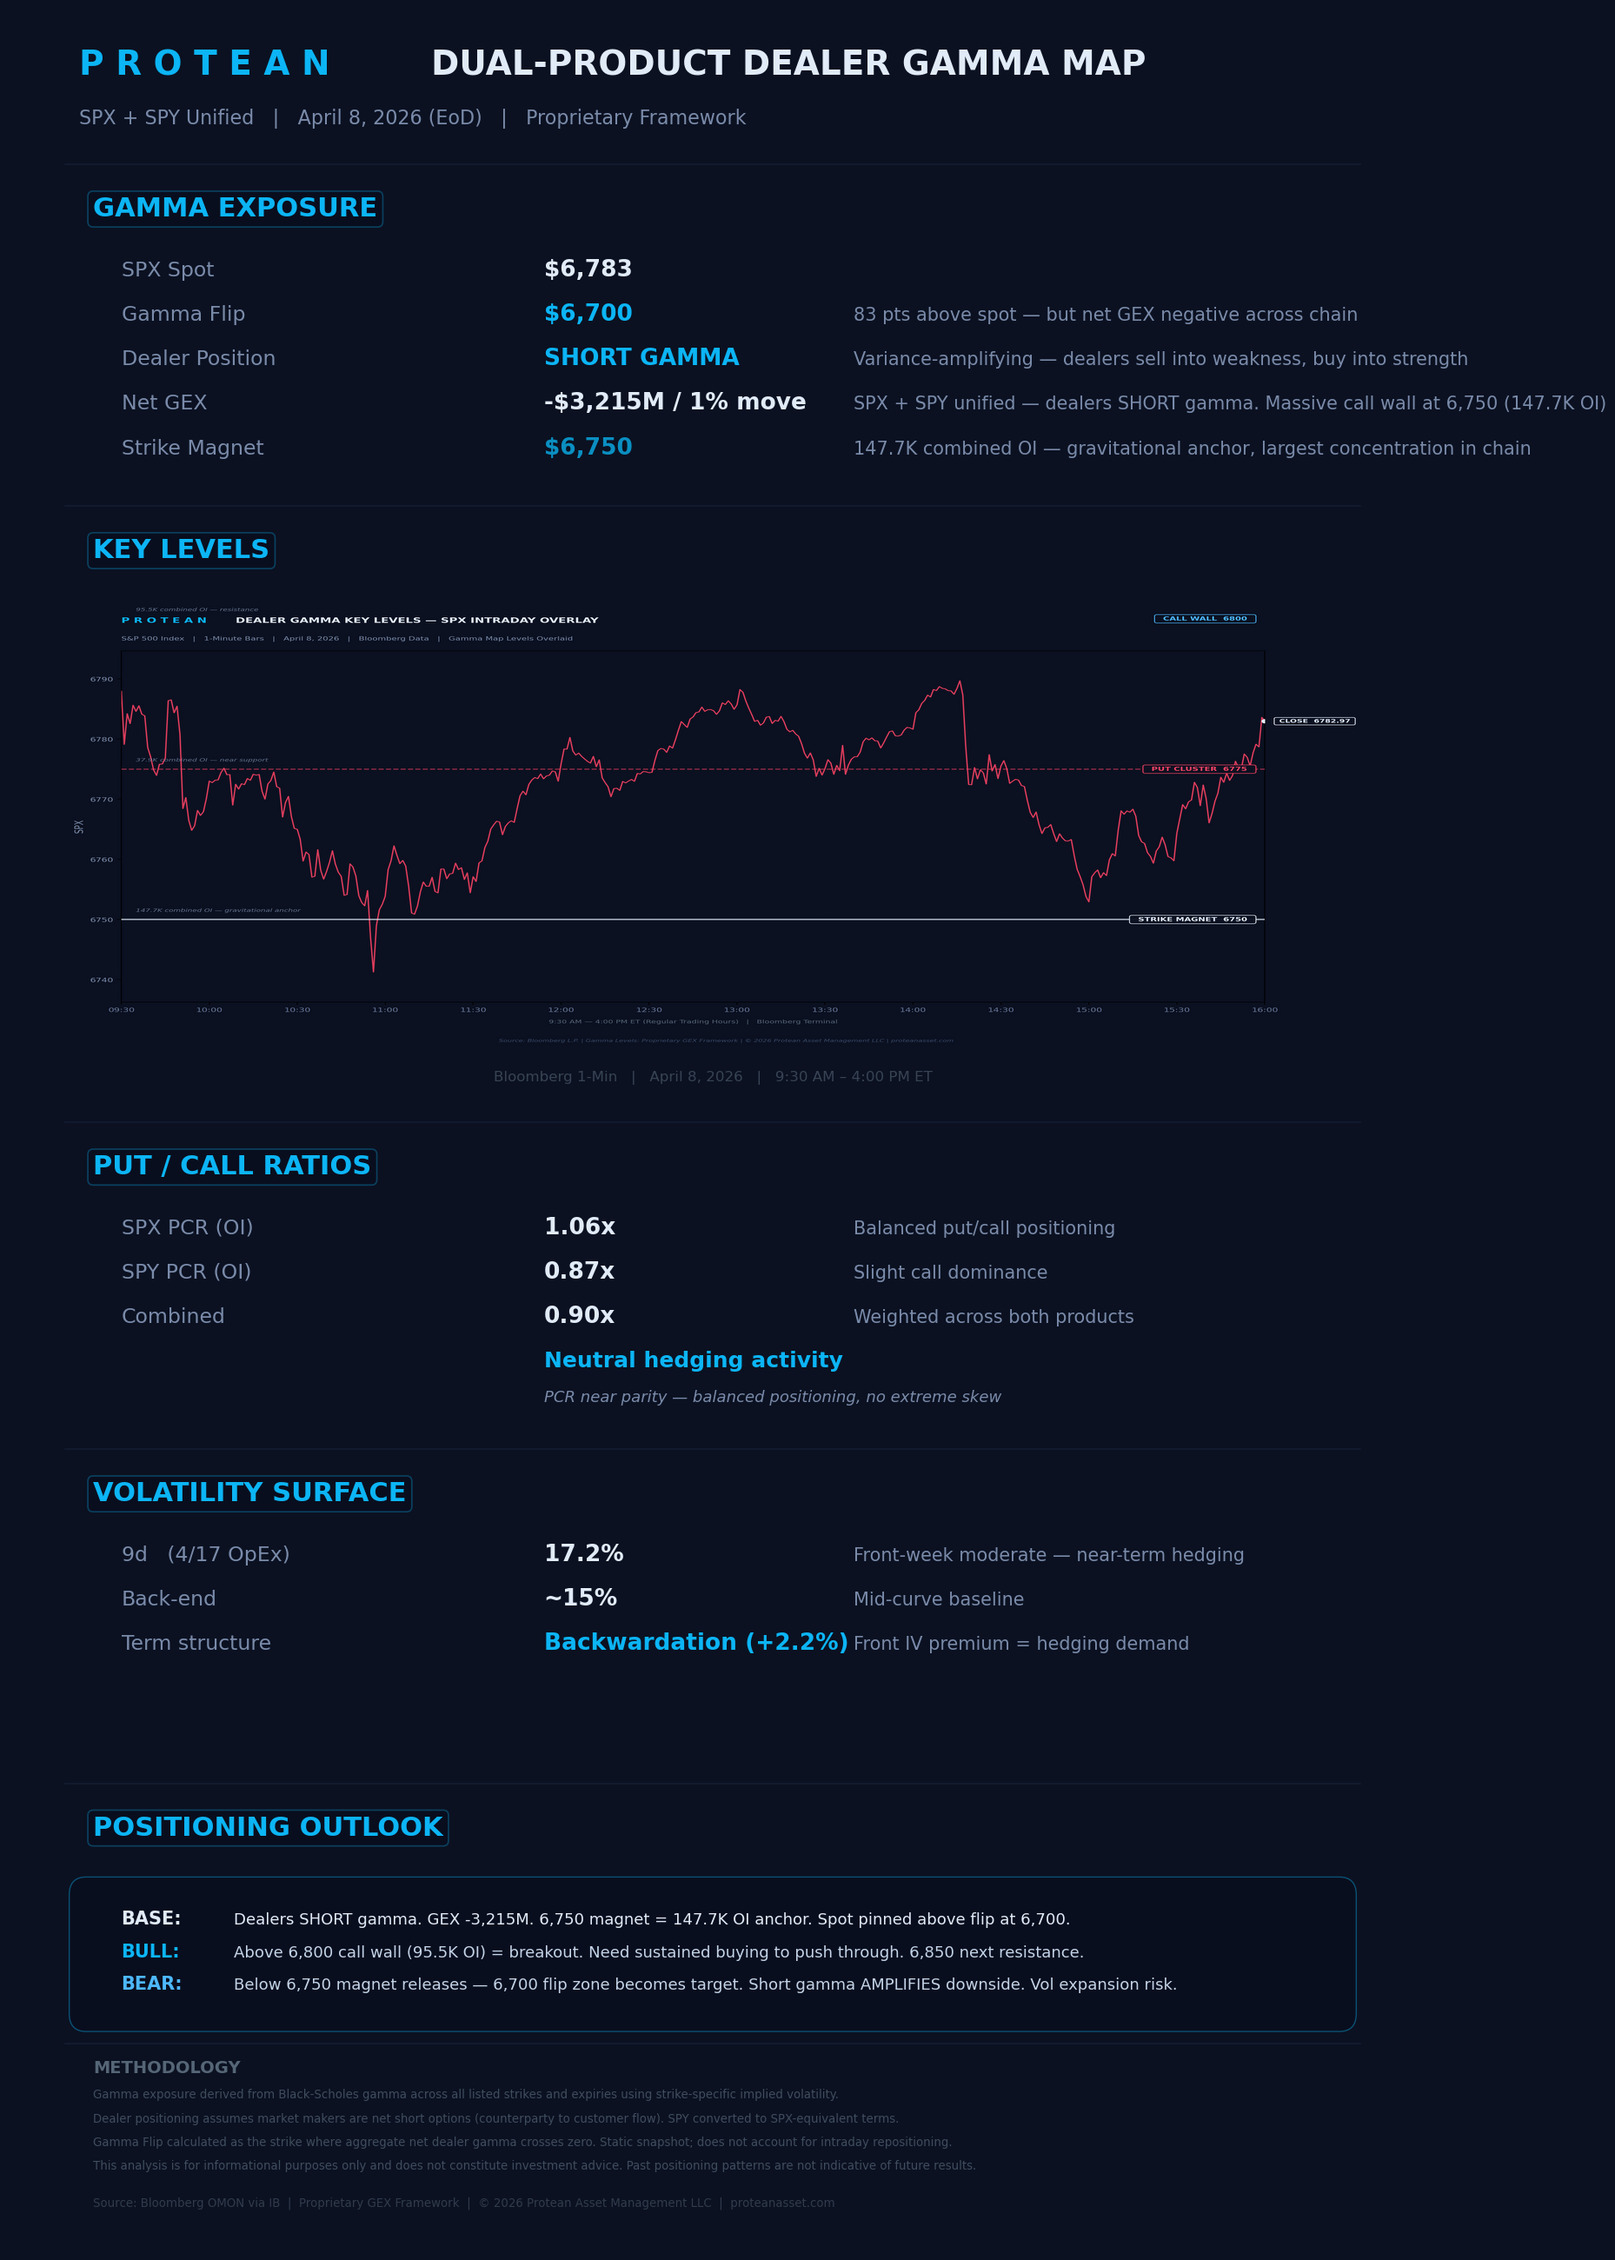
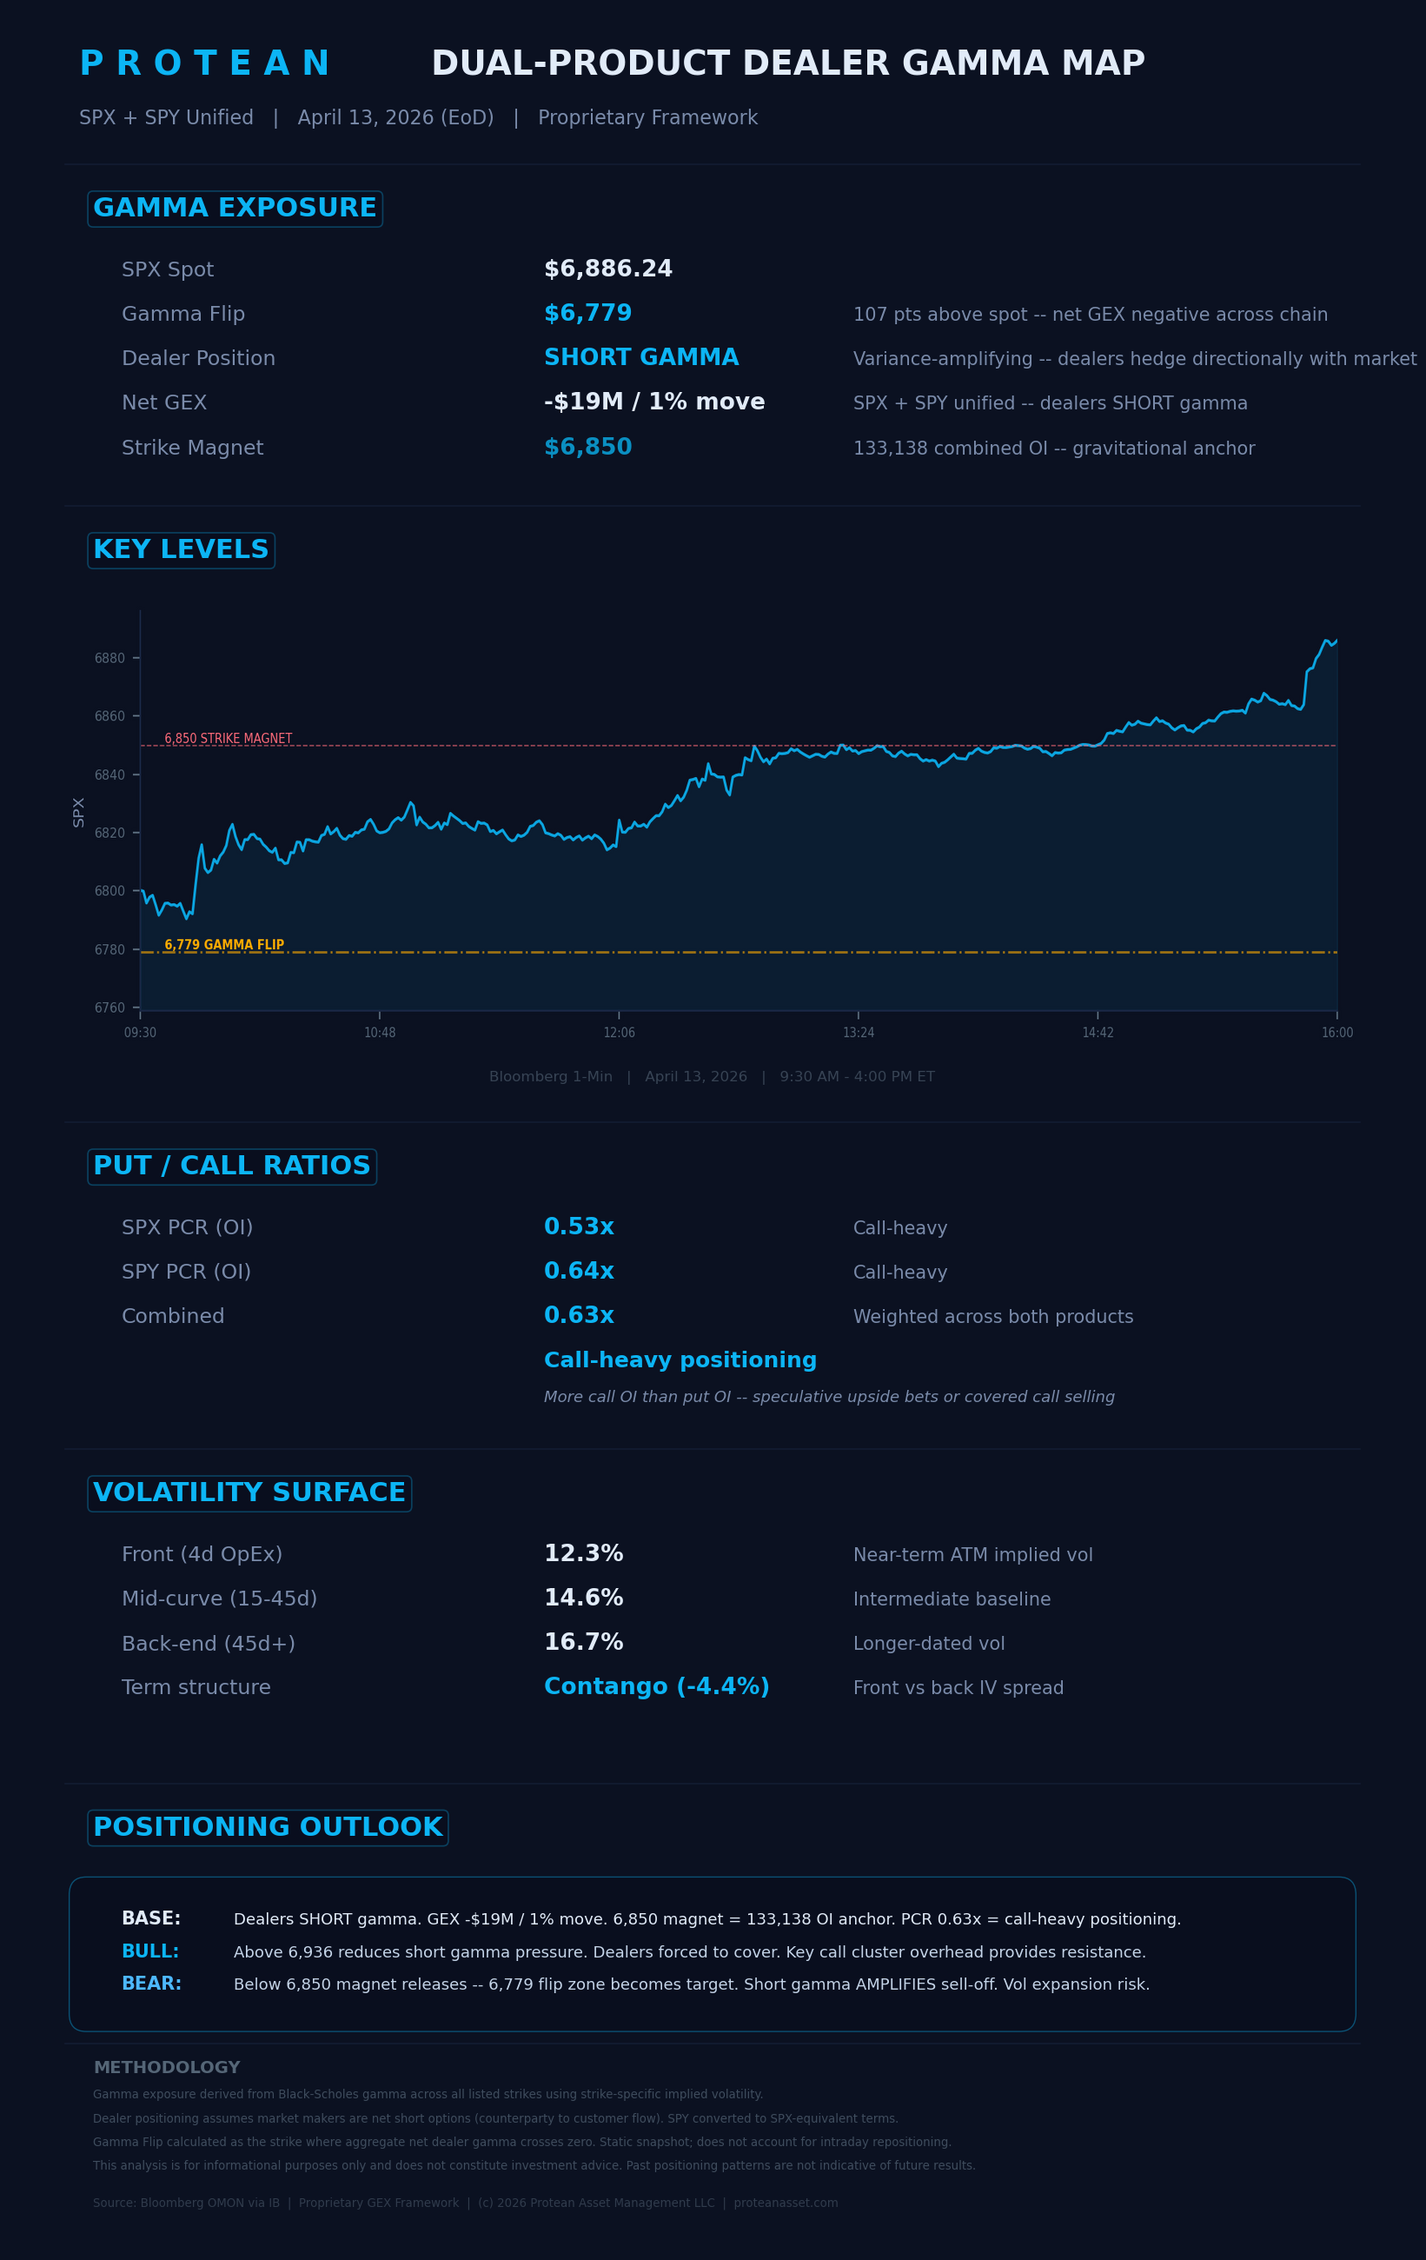
Update gamma map to Apr 13 + refresh bubbles (6779 flip, -19M GEX, 0.63x PCR, 133K magnet)

diff --git a/research.html b/research.html
@@ -241,26 +241,26 @@
         <div class="card-header">
             <div class="card-tag">Microstructure — Dealer Positioning</div>
             <div class="card-title">Dual-Product Dealer Gamma Map — SPX + SPY Unified</div>
-            <div class="card-subtitle">Proprietary GEX Framework | Black-Scholes Gamma | Bloomberg OMON Data | As of April 8, 2026 (EoD)</div>
+            <div class="card-subtitle">Proprietary GEX Framework | Black-Scholes Gamma | Bloomberg OMON Data | As of April 13, 2026 (EoD)</div>
         </div>
         <div class="card-body" style="padding: 1.5rem 2rem;">
-            <img src="gamma-map.png" alt="Dual-Product Dealer Gamma Map" style="width:100%; border-radius:8px; border:1px solid rgba(12,181,245,0.12);">
+            <img src="gamma-map.png?v=20260414" alt="Dual-Product Dealer Gamma Map" style="width:100%; border-radius:8px; border:1px solid rgba(12,181,245,0.12);">
             <div style="display:grid; grid-template-columns:repeat(4,1fr); gap:0.5rem; margin-top:0.6rem;">
                 <div style="text-align:center; padding:0.5rem 0.3rem; background:rgba(12,181,245,0.03); border:1px solid rgba(12,181,245,0.07); border-radius:5px;">
-                    <div style="font-size:1rem; font-weight:600; color:#ff9933; font-family:monospace;">6,700</div>
+                    <div style="font-size:1rem; font-weight:600; color:#ff9933; font-family:monospace;">6,779</div>
                     <div style="font-size:0.58rem; color:#556677; margin-top:0.15rem; letter-spacing:0.06em; text-transform:uppercase;">Gamma Flip</div>
                 </div>
                 <div style="text-align:center; padding:0.5rem 0.3rem; background:rgba(12,181,245,0.03); border:1px solid rgba(12,181,245,0.07); border-radius:5px;">
-                    <div style="font-size:1rem; font-weight:600; color:#ff4466; font-family:monospace;">-$3,215M</div>
+                    <div style="font-size:1rem; font-weight:600; color:#ff4466; font-family:monospace;">-$19M</div>
                     <div style="font-size:0.58rem; color:#556677; margin-top:0.15rem; letter-spacing:0.06em; text-transform:uppercase;">Net GEX / 1%</div>
                 </div>
                 <div style="text-align:center; padding:0.5rem 0.3rem; background:rgba(12,181,245,0.03); border:1px solid rgba(12,181,245,0.07); border-radius:5px;">
-                    <div style="font-size:1rem; font-weight:600; color:#e1ebf8; font-family:monospace;">0.90x</div>
+                    <div style="font-size:1rem; font-weight:600; color:#e1ebf8; font-family:monospace;">0.63x</div>
                     <div style="font-size:0.58rem; color:#556677; margin-top:0.15rem; letter-spacing:0.06em; text-transform:uppercase;">Combined PCR</div>
                 </div>
                 <div style="text-align:center; padding:0.5rem 0.3rem; background:rgba(12,181,245,0.03); border:1px solid rgba(12,181,245,0.07); border-radius:5px;">
-                    <div style="font-size:1rem; font-weight:600; color:#0cb5f5; font-family:monospace;">147.7K</div>
-                    <div style="font-size:0.58rem; color:#556677; margin-top:0.15rem; letter-spacing:0.06em; text-transform:uppercase;">OI @ 6750</div>
+                    <div style="font-size:1rem; font-weight:600; color:#0cb5f5; font-family:monospace;">133.1K</div>
+                    <div style="font-size:0.58rem; color:#556677; margin-top:0.15rem; letter-spacing:0.06em; text-transform:uppercase;">OI @ 6,850 Magnet</div>
                 </div>
             </div>
         </div>
